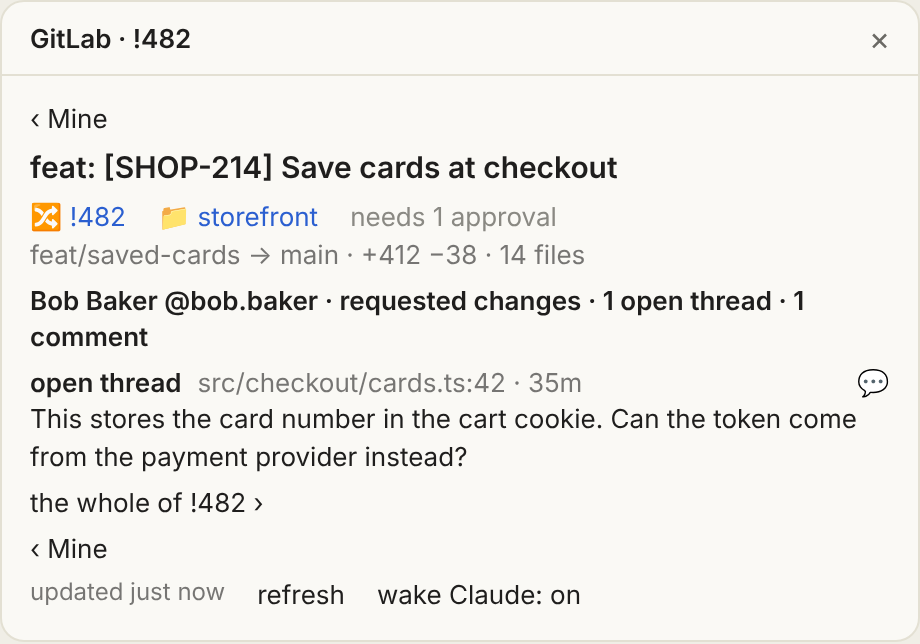
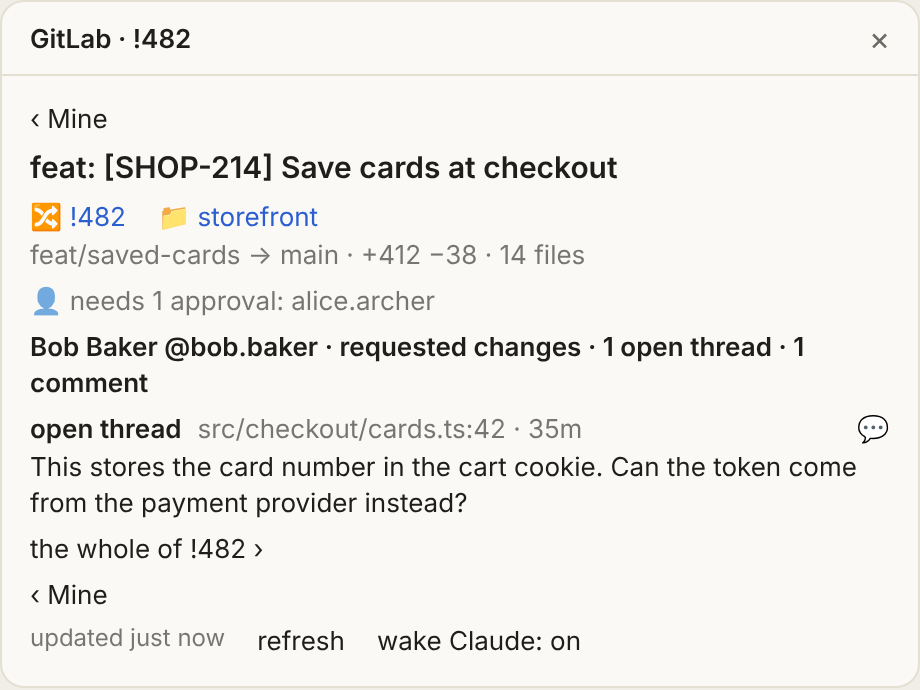
feat: the verdict counts the open threads, and an MR's page explains its verdict (#77)
GitLab's "discussions not resolved" reads as "2 open threads" on a card, counted as approvals already are. On an MR's
page, the verdict gives way to the line that explains it, so "needs 1 approval" says who can approve and a conflict
is said once; a verdict the page has no line for stays in its head.

Closes #11.

diff --git a/hooks/page-lines.ts b/hooks/page-lines.ts
@@ -21,7 +21,9 @@ export type PageContext = {
 export type PageHead = {
   /** The ticket and what Jira says of it, as one link; null while the title names none or no Jira site is set. */
   ticket: { text: string; href: string } | null
-  /** What stands before a merge that the page's own sections (failed jobs, threads) and GitLab's verdict leave unsaid; a manual job to start links to it. */
+  /** GitLab's verdict, unless a line of `standing` explains it, which then says it in its place. */
+  verdict: { words: string; tone: Tone; bold: boolean } | null
+  /** What stands before a merge that the page's own sections (failed jobs, threads) leave unsaid; a manual job to start links to it. */
   standing: { text: string; tone: Tone | undefined; href: string | null }[]
 }
 
@@ -35,13 +37,15 @@ function standingOf(card: MrCard, badge: Badge): string | null {
     case 'manual':
       return `Waiting on ${card.pipeline?.blockedOn.join(', ') ?? 'a manual job'}`
     case 'check':
-      return badge.words
+      // The page's open threads, listed below, say this check.
+      return badge.check === 'DISCUSSIONS_NOT_RESOLVED' ? null : badge.words
     case 'conflicts':
       return `Conflicts with ${card.branch.target}`
     case 'rebase':
       return `Needs a rebase onto ${card.branch.target}`
     case 'approvals':
-      return `Approvals ${badge.count}${card.approvers.length > 0 ? `: ${card.approvers.join(', ')}` : ''}`
+      // "needs 1 approval" or "approved", with who can approve.
+      return `${badge.words}${card.approvers.length > 0 ? `: ${card.approvers.join(', ')}` : ''}`
     case 'threads':
     case 'failed':
     case 'amber':
@@ -59,21 +63,28 @@ export function pageHead(card: MrCard, ctx: PageContext): PageHead {
   const jira = facts.ticket !== null ? ctx.tickets[facts.ticket] : undefined
   // Jira's tool is not installed here, so a ticket will not be filled in.
   const isJiraUnavailable = ctx.failures.jira?.kind === 'not-installed'
-  // GitLab's verdict, drawn in the page's head, already says the marker it is about.
-  const markers = facts.verdict !== null ? facts.trailing : facts.row
   const said =
     facts.ticket === null
       ? ''
       : jira !== undefined
         ? `${facts.ticket} · ${jira.type} · ${jira.status}: ${jira.summary}`
         : `${facts.ticket}: ${isJiraUnavailable ? 'Jira is not available here' : 'not read from Jira yet'}`
+  // Every marker the page has words for, the one GitLab's verdict is about too: the page says who can approve, which the
+  // verdict's "needs 1 approval" does not.
+  const explained = facts.row.flatMap(badge => {
+    const words = standingOf(card, badge)
+    return words !== null ? [{ badge, words }] : []
+  })
+  const { verdict } = facts
+  const isExplained = verdict !== null && explained.some(({ badge }) => badge.check !== undefined && badge.check === verdict.check)
   return {
     ticket: href !== null ? { text: `${LINK.jira} ${said}`, href } : null,
-    standing: markers.flatMap(badge => {
-      const words = standingOf(card, badge)
-      const tone = badge.tone === 'subtle' ? undefined : badge.tone
-      return words !== null ? [{ text: `${badge.glyph} ${words}`, tone, href: badge.kind === 'manual' ? manualJob(card) : null }] : []
-    }),
+    verdict: verdict !== null && !isExplained ? { words: verdict.words, tone: verdict.tone, bold: verdict.tone === 'success' } : null,
+    standing: explained.map(({ badge, words }) => ({
+      text: `${badge.glyph} ${words}`,
+      tone: badge.tone === 'subtle' ? undefined : badge.tone,
+      href: badge.kind === 'manual' ? manualJob(card) : null,
+    })),
   }
 }
 

diff --git a/tests/core/page-lines.spec.ts b/tests/core/page-lines.spec.ts
@@ -17,12 +17,25 @@ test('a ticket Jira cannot be read for says so on its page, instead of waiting f
   expect(pageHead(card, { ...JIRA, browse: '' }).ticket).toBeNull()
 })
 
-test("a page says what stands before a merge that GitLab's verdict leaves unsaid, and nothing it says itself", () => {
+test("a page explains GitLab's verdict, saying it once: who can approve when it needs an approval", () => {
+  const waiting = { ...toCard(HOST, rawMr(9)), approvers: ['Farhad', 'Max'], mergeStatus: gitlabSays({ NOT_APPROVED: 'failed' }) }
+  // "needs 1 approval" gives way to the line that says it with who can give it.
+  expect(pageHead(waiting, JIRA).verdict).toBeNull()
+  expect(pageHead(waiting, JIRA).standing).toEqual([{ text: '👤 needs 1 approval: Farhad, Max', tone: undefined, href: null }])
   const conflicted = { ...toCard(HOST, rawMr(8, { conflicts: true })), mergeStatus: gitlabSays({ CONFLICT: 'failed' }) }
-  // The verdict says the conflict, so the page's head does not say it again; only the approval it also waits on.
-  expect(pageHead(conflicted, JIRA).standing.map(line => line.text)).toEqual(['👤 Approvals 0/1'])
-  const waiting = toCard(HOST, rawMr(9))
-  expect(pageHead(waiting, JIRA).standing).toEqual([{ text: '👤 Approvals 0/1', tone: undefined, href: null }])
+  expect(pageHead(conflicted, JIRA).verdict).toBeNull()
+  expect(pageHead(conflicted, JIRA).standing.map(line => line.text)).toEqual(['✗ conflict', '👤 needs 1 approval'])
+  // A verdict the page has no line for stays in its head.
+  const mergeable = { ...toCard(HOST, rawMr(10, { approvalsLeft: 0 })), mergeStatus: gitlabSays() }
+  expect(pageHead(mergeable, JIRA).verdict).toEqual({ words: '✓ mergeable', tone: 'success', bold: true })
+  // Unresolved threads are said by the page's own list of them, not by a line in its head.
+  const threaded = { ...toCard(HOST, rawMr(11, { discussions: { nodes: [thread('Rename this.', 'bob')] } })), mergeStatus: gitlabSays({ DISCUSSIONS_NOT_RESOLVED: 'failed' }) }
+  expect(
+    pageHead(threaded, JIRA)
+      .standing.map(line => line.text)
+      .some(text => text.includes('thread'))
+  ).toBe(false)
+  expect(pageHead(threaded, JIRA).verdict?.words).toBe('1 open thread')
 })
 
 test('a manual job the pipeline waits on links to its page, where a person starts it', () => {

diff --git a/hooks/reading.tsx b/hooks/reading.tsx
@@ -3,7 +3,6 @@ import type { EngineInterface, RenderChildren, RenderInput } from 'claude-code'
 import { CHROME_SIZE, DRAWING_BUDGET, LINK, measure } from './drawing'
 import { ago, plural } from './format'
 import { shortHash } from './identity'
-import { verdictOf } from './attention'
 import { cutToFit, EMPTY_MARKDOWN, partsOf } from './markdown'
 import { showWhole, toggleFold } from './choices'
 import { personPage } from './page-lines'
@@ -72,7 +71,7 @@ export function drawReading($: EngineInterface, e: RenderInput<'Pane'>, mr: MrCa
     </Box>
   )
 
-  const verdict = verdictOf(mr)
+  const { verdict } = about
   const head = [
     <Text size="heading" weight="semibold">
       {mr.title}
@@ -81,7 +80,7 @@ export function drawReading($: EngineInterface, e: RenderInput<'Pane'>, mr: MrCa
       <Link href={mr.url}>{`${LINK.mr} !${mr.iid}`}</Link>
       <Link href={mr.repo.url}>{`${LINK.repo} ${mr.repo.name}`}</Link>
       {verdict !== null && (
-        <Text weight={verdict.tone === 'success' ? 'semibold' : undefined} color={verdict.tone}>
+        <Text weight={verdict.bold ? 'semibold' : undefined} color={verdict.tone}>
           {verdict.words}
         </Text>
       )}
@@ -94,7 +93,8 @@ export function drawReading($: EngineInterface, e: RenderInput<'Pane'>, mr: MrCa
       line.href !== null ? (
         <Link href={line.href}>{line.text}</Link>
       ) : (
-        <Text weight="semibold" color={line.tone}>
+        // What waits on others is said quietly, as the verdict says it; what is yours to act on stands out in its tone.
+        <Text weight={line.tone !== undefined ? 'semibold' : undefined} dimColor={line.tone === undefined} color={line.tone}>
           {line.text}
         </Text>
       )

diff --git a/hooks/attention.ts b/hooks/attention.ts
@@ -92,8 +92,16 @@ const isKnownCheck = (id: string): id is MergeabilityCheckIdentifier => Object.h
 /** A failing check's tone; one GitLab adds after this was written blocks the merge, so it is red until it has a tone. */
 const failureTone = (id: string): Tone => (isKnownCheck(id) ? CHECK_TONE[id] : 'error')
 
-/** A check in words; the approvals one says how many, as the pane knows. */
-const wordsFor = (card: MrCard, id: string): string => (id === 'NOT_APPROVED' && card.approvalsLeft > 0 ? `needs ${plural(card.approvalsLeft, 'approval')}` : checkWords(id))
+/** A check in words; the approvals and the threads ones say how many, as the pane knows. */
+function wordsFor(card: MrCard, id: string): string {
+  if (id === 'NOT_APPROVED' && card.approvalsLeft > 0) {
+    return `needs ${plural(card.approvalsLeft, 'approval')}`
+  }
+  if (id === 'DISCUSSIONS_NOT_RESOLVED' && threadCount(card) > 0) {
+    return plural(threadCount(card), 'open thread')
+  }
+  return checkWords(id)
+}
 
 const checkBadge = (card: MrCard, check: MergeCheck): Badge => ({
   kind: 'check',

diff --git a/tests/core/attention.spec.ts b/tests/core/attention.spec.ts
@@ -69,6 +69,10 @@ test("GitLab's own merge checks give the verdict: its first failing check in wor
   expect(said(gitlabSays({ CONFLICT: 'failed' }))).toEqual(['conflict', 'error'])
   expect(said(gitlabSays({ NEED_REBASE: 'failed' }))).toEqual(['need rebase', 'warning'])
   expect(said(gitlabSays({ DISCUSSIONS_NOT_RESOLVED: 'failed' }))).toEqual(['discussions not resolved', 'warning'])
+  // Unresolved threads it has read, it counts, as it counts approvals.
+  const threads = { discussions: { nodes: [thread('Rename this.', 'bob'), thread('And this.', 'alice')] } }
+  const counted = verdictOf({ ...toCard(HOST, rawMr(1, threads)), mergeStatus: gitlabSays({ DISCUSSIONS_NOT_RESOLVED: 'failed' }) })
+  expect(counted?.words).toBe('2 open threads')
   expect(said(gitlabSays({ REQUESTED_CHANGES: 'failed' }))).toEqual(['requested changes', 'error'])
   expect(said(gitlabSays({ MERGE_TIME: 'failed' }))).toEqual(['merge time', 'subtle'])
   expect(said(gitlabSays({ SECURITY_POLICY_VIOLATIONS: 'failed' }))).toEqual(['security policy violations', 'error'])
